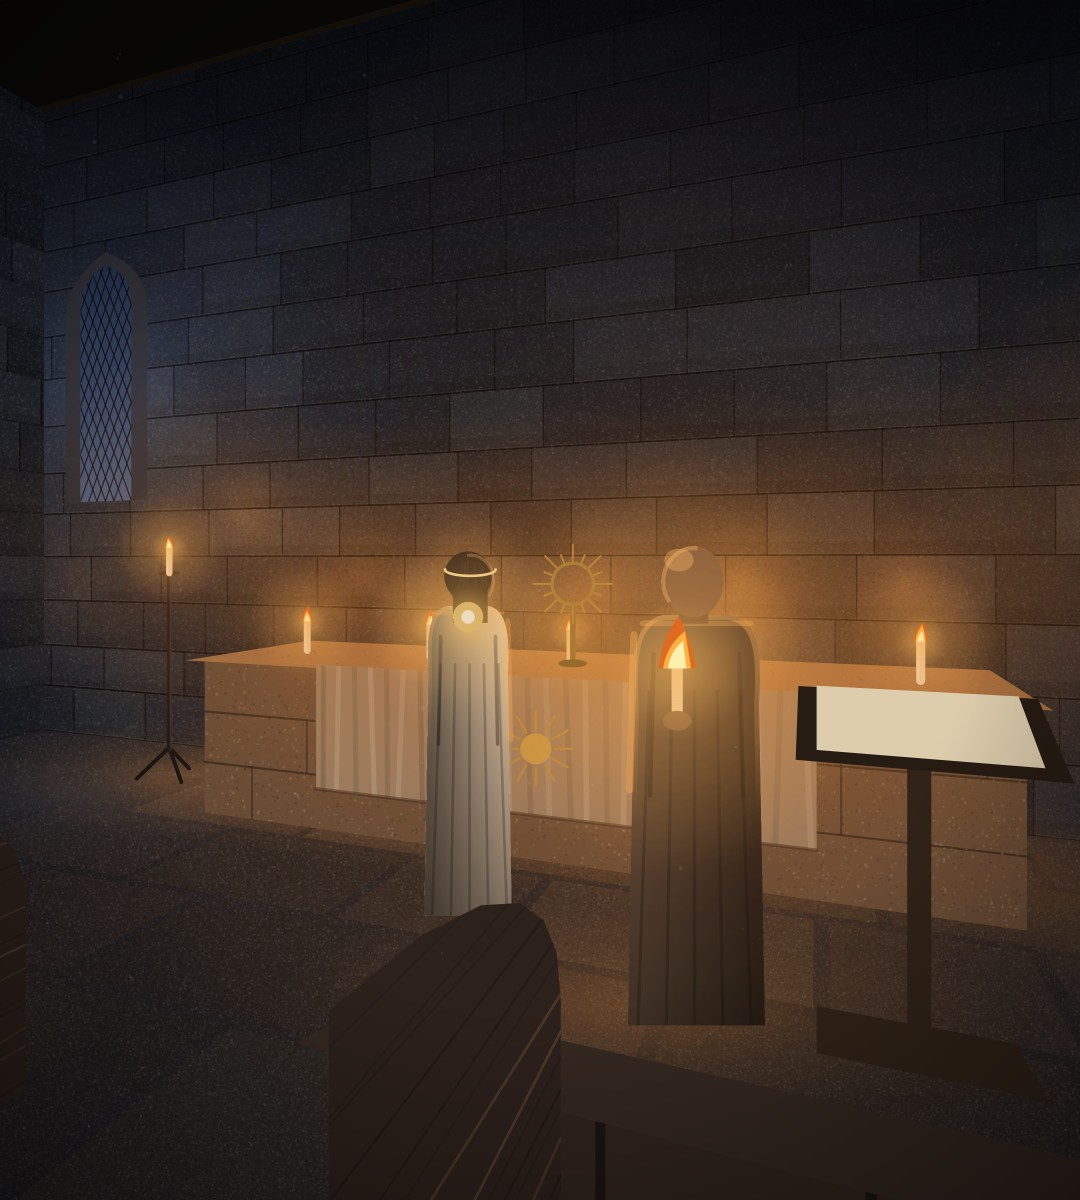
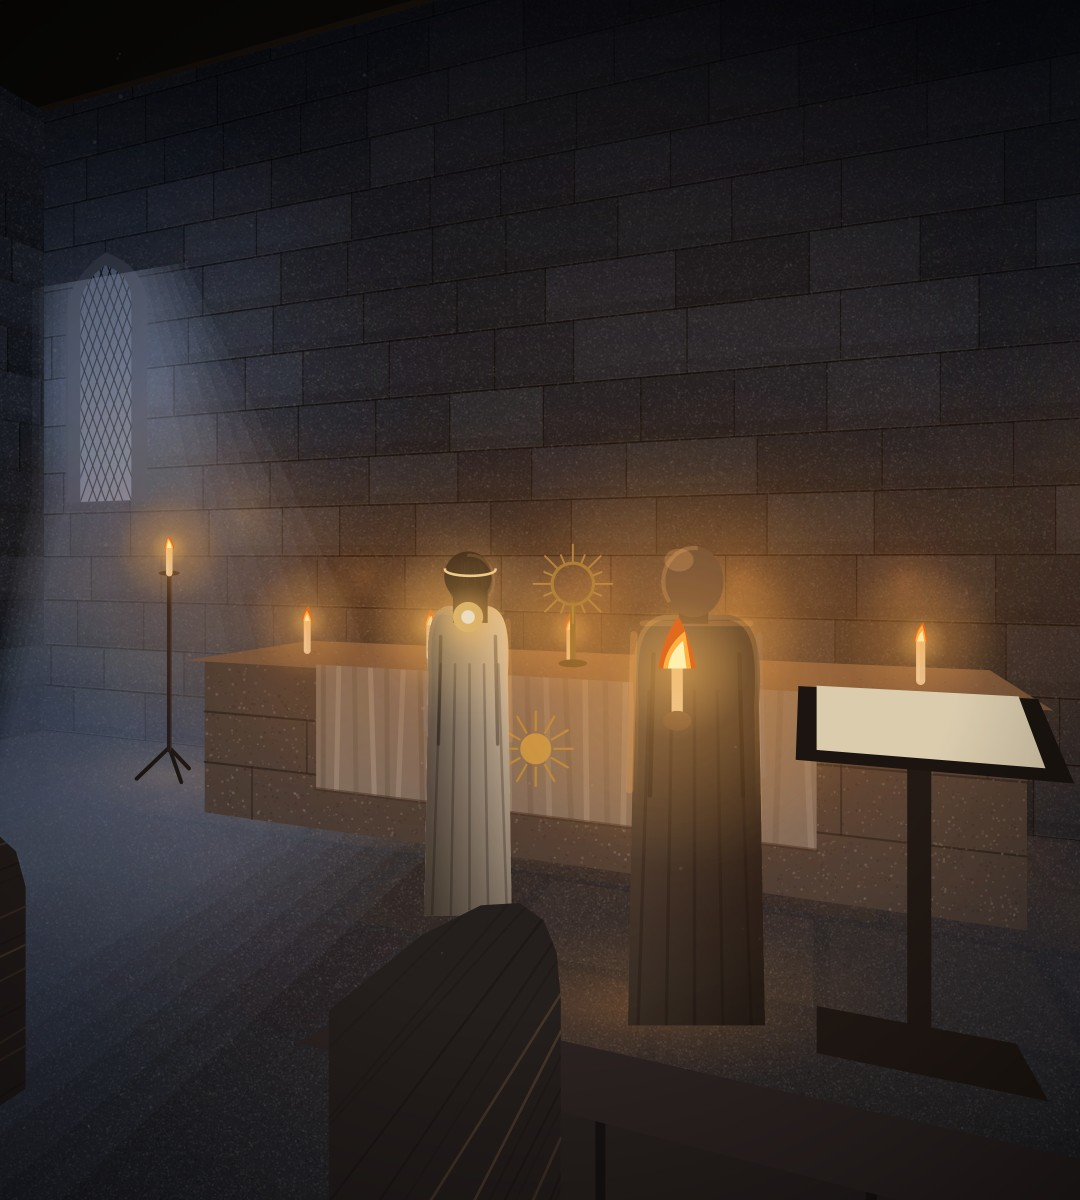
68 (112, 2, Messung Homer): Bild 3 mit Morgengrau aus dem Nordwestfenster (weicher Lichtfall auf Wand und Boden), Kerzenschein enger; kühl 6 → 15 %, Schleier +0,30 → +0,20
Claude-Session: https://claude.ai/code/session_01WK7d6gjHH5ppcA2YCSyFtL

diff --git a/tools/preview/src/main/kotlin/TempleProbe.kt b/tools/preview/src/main/kotlin/TempleProbe.kt
@@ -115,6 +115,8 @@ internal class TemplePainter(val shot: Int) : IntroPainter() {
     // ---- the light of each picture
     val dawn = shot == 5
     val sun = shot == 4
+    /** 112 (2, Messung Homer 18.10.): picture 3 had no counter-light; the first grey of the morning stands in its windows. */
+    val grey = shot == 3
     /** The candles that burn (tile x, height, tile y): on the altar, the two tall candlesticks, Osric's candle. */
     val candles: List<Triple<Double, Double, Double>> by lazy { buildList {
         if (!dawn) {
@@ -130,12 +132,12 @@ internal class TemplePainter(val shot: Int) : IntroPainter() {
      * round of a metre or two and falls off fast; between the candles the room stays dark and cool, no warm veil over it all.
      */
     fun warmth(tx: Double, y: Double, ty: Double): Double = candles.sumOf { (cx0, cy, cy0) ->
-        val d = hypot(hypot((tx - cx0) * T, (ty - cy0) * T), y - cy); 0.42 / (1 + d * d * 2.2) }.coerceAtMost(1.0) * (if (dawn) 0.6 else if (sun) 0.6 else 1.0)
+        val d = hypot(hypot((tx - cx0) * T, (ty - cy0) * T), y - cy); (if (grey) 0.3 else 0.42) / (1 + d * d * (if (grey) 3.6 else 2.2)) }.coerceAtMost(1.0) * (if (dawn) 0.6 else if (sun) 0.6 else 1.0)
     /** The windows (and in picture 5 the door) on the plan: tile x, tile y, how high their middle is. */
     val windows = listOf(Triple(1.5, 1.0, 3.3), Triple(7.5, 1.0, 3.3), Triple(8.0, 3.5, 3.2), Triple(6.5, 6.0, 3.1), Triple(1.5, 6.0, 3.1))
     /** 112 (2): the cold light of the sky before the sun, falling in through the windows (and the door in picture 5). */
     fun cold(tx: Double, y: Double, ty: Double): Double {
-        val k = if (dawn) 1.0 else if (sun) 0.7 else 0.55
+        val k = if (dawn) 1.0 else if (grey) 0.85 else if (sun) 0.7 else 0.55
         val w = windows.sumOf { (wx, wy, wh) -> val d = hypot(hypot((tx - wx) * T, (ty - wy) * T), (y - wh) * 0.7); 0.5 / (1 + d * d * 0.18) }
         val door = if (dawn) { val d = hypot((tx - 4.5) * T, (ty - 6.0) * T); 1.0 / (1 + d * d * 0.25) } else 0.0
         return ((w + door) * k).coerceAtMost(1.0)
@@ -146,7 +148,7 @@ internal class TemplePainter(val shot: Int) : IntroPainter() {
     fun stoneAt(tx: Double, y: Double, ty: Double, k: Double = 1.0): Color {
         val w = warmth(tx, y, ty).coerceAtMost(1.0)
         // the dark of the room is cool; the sky from the windows lays a grey-blue on what is near them
-        val base = mix(mix(night(stoneDay, 0.34 * k), Color(0x181C26), 0.5), mix(night(stoneDay, 0.9 * k), coolSky, 0.45), cold(tx, y, ty) * (if (dawn) 0.6 else 0.6))
+        val base = mix(mix(night(stoneDay, 0.34 * k), Color(0x181C26), 0.5), mix(night(stoneDay, 0.9 * k), coolSky, 0.45), cold(tx, y, ty) * (if (grey) 0.85 else 0.6))
         return mix(base, Color((0xA8 * k).toInt().coerceAtMost(255), (0x70 * k).toInt().coerceAtMost(255), (0x3E * k).toInt().coerceAtMost(255)), w * 0.75)
     }
 
@@ -154,6 +156,8 @@ internal class TemplePainter(val shot: Int) : IntroPainter() {
         g.color = Color(0x05060A); g.fillRect(0, 0, W * SS, H * SS)
         walls()
         floor()
+        // picture 3: the grey falls onto wall and flags behind the people and pews, not over them or the flames
+        if (grey) greyLight()
         // the furniture and the people, far ones first
         val items = ArrayList<Pair<Double, () -> Unit>>()
         items += depth(4.5, 1.5) to { altar() }
@@ -230,7 +234,7 @@ internal class TemplePainter(val shot: Int) : IntroPainter() {
                 val onWall = abs((wx - w.ax) * (w.by - w.ay) - (wy - w.ay) * (w.bx - w.ax)) / len < 0.05
                 if (!onWall) continue
                 val c = P(wx, wh, wy); val z = cz(wx, wy); if (z < 0.3) continue
-                glow(c.x, c.y, f * 3.2 / z, coolSky, if (dawn) 0.4 else if (sun) 0.3 else 0.32) }
+                glow(c.x, c.y, f * 3.2 / z, coolSky, if (dawn) 0.4 else if (grey) 0.45 else if (sun) 0.3 else 0.32) }
             if (dawn && w === list[2]) { val c = P(4.5, 1.4, 6.0); val z = cz(4.5, 6.0); if (z > 0.3) glow(c.x, c.y, f * 4.5 / z, Color(0x8A94A8), 0.55) }
             // warm light from the candles lies on the wall in pools, at the point of the wall nearest the candle
             for ((cx0, cy, cy0) in candles) {
@@ -238,9 +242,9 @@ internal class TemplePainter(val shot: Int) : IntroPainter() {
                 val qx = w.ax + (w.bx - w.ax) * t; val qy = w.ay + (w.by - w.ay) * t
                 val d = hypot(qx - cx0, qy - cy0) * T; if (d > 4.0) continue
                 val c = P(qx, cy + 0.3, qy); val z = cz(qx, qy); if (z < 0.3) continue
-                val k = 1.0 / (1 + d * d * 0.5)
-                glow(c.x, c.y, f * (0.9 + d * 0.5) / z, Color(0xD88038), (if (dawn) 0.2 else 0.34) * k)
-                glow(c.x, c.y, f * (0.4 + d * 0.2) / z, Color(0xFFB060), (if (dawn) 0.1 else 0.18) * k)
+                val k = 1.0 / (1 + d * d * (if (grey) 1.2 else 0.5)); val r = if (grey) 0.65 else 1.0
+                glow(c.x, c.y, f * (0.9 + d * 0.5) * r / z, Color(0xD88038), (if (dawn) 0.2 else 0.34) * k)
+                glow(c.x, c.y, f * (0.4 + d * 0.2) * r / z, Color(0xFFB060), (if (dawn) 0.1 else 0.18) * k)
             }
             // 112 (3): every dressed stone its own shade, a little darker at its lower edge, chipped here and there
             run { var yy = 0.0; var rr = 0
@@ -301,10 +305,11 @@ internal class TemplePainter(val shot: Int) : IntroPainter() {
             sun && east -> GradientPaint(0f, b.y.toFloat(), Color(0xFFE8B0), 0f, (b.y + b.height).toFloat(), Color(0xF0A050))
             sun -> GradientPaint(0f, b.y.toFloat(), Color(0x5A6A8A), 0f, (b.y + b.height).toFloat(), Color(0x8A7A70))
             dawn -> GradientPaint(0f, b.y.toFloat(), Color(0x8A909A), 0f, (b.y + b.height).toFloat(), Color(0xA8A8A6))
+            grey -> GradientPaint(0f, b.y.toFloat(), Color(0x4A5670), 0f, (b.y + b.height).toFloat(), Color(0x7E8698))
             else -> GradientPaint(0f, b.y.toFloat(), Color(0x23304E), 0f, (b.y + b.height).toFloat(), Color(0x4E5E7E))
         }
         // 112 (2): the grey-blue of the sky spills round the window onto the stone, the counter-light to the candles
-        if (!(sun && east)) glow(b.centerX, b.centerY, b.height * (if (door) 1.6 else 1.25), coolSky, if (dawn) 0.3 else 0.22)
+        if (!(sun && east)) glow(b.centerX, b.centerY, b.height * (if (door) 1.6 else 1.25), coolSky, if (dawn) 0.3 else if (grey) 0.32 else 0.22)
         g.paint = sky; g.fill(glass)
         if (door) { if (dawn) outside(glass); return }
         val clip = g.clip; g.clip(glass)
@@ -372,10 +377,11 @@ internal class TemplePainter(val shot: Int) : IntroPainter() {
         room(t3(x0, 0.0, y0), t3(x1, 0.0, y0), t3(x1, 0.0, y1), t3(x0, 0.0, y1))?.let { speckle(it, 0.3, 0.1) }
         // the candles' light on the floor: small warm rounds
         for ((cx0, _, cy0) in candles) { val z = cz(cx0, cy0); if (z < 0.3) continue
-            groundPool(cx(cx0, cy0), z, 1.4, Color(0xE08A3A), if (dawn) 0.2 else 0.28, 0.32) }
+            groundPool(cx(cx0, cy0), z, if (grey) 0.95 else 1.4, Color(0xE08A3A), if (dawn) 0.2 else 0.28, 0.32) }
         // the grey of the sky lying on the flags below the windows
         if (!dawn) for ((wx, wy, _) in windows) { val ix = wx + (4.5 - wx) * 0.25; val iy = wy + (3.5 - wy) * 0.35; val z = cz(ix, iy); if (z < 0.3) continue
-            groundPool(cx(ix, iy), z, 1.8, coolSky, if (sun) 0.12 else 0.16, 0.3) }
+            groundPool(cx(ix, iy), z, if (grey) 2.6 else 1.8, coolSky, if (grey) 0.3 else if (sun) 0.12 else 0.16, 0.3) }
+        if (grey) { val z = cz(2.7, 2.6); if (z > 0.3) groundPool(cx(2.7, 2.6), z, 1.6, Color(0x8C9AB4), 0.22, 0.3) }
         if (dawn) { val z = cz(4.5, 6.0); if (z > 0.3) groundPool(cx(4.5, 6.0), z - 1.6, 3.2, Color(0xA8B0C0), 0.35, 0.3) }
     }
 
@@ -715,6 +721,28 @@ internal class TemplePainter(val shot: Int) : IntroPainter() {
     }
 
     /** Picture 4: the first sun through the east window, a shaft of light through the dusty air down onto the amulet. */
+    /**
+     * Picture 3 (112, 2): no sun yet, only the grey before it; from the north-west window a broad, soft fall of cool light
+     * slants down onto the flags and the left end of the altar, fading as it goes. Not a shaft with edges like picture 4.
+     */
+    fun greyLight() {
+        val wx = 1.5; val wy = 1.0
+        if (cz(wx, wy) < 0.3) return
+        val old = g.composite
+        // soft edges: the same fall laid several times, a little wider each time and fainter
+        for (k in 0 until 6) {
+            val e = 0.12 * k
+            val s0 = P(wx - 0.3 - e * 0.5, 4.3, wy); val s1 = P(wx + 0.3 + e * 0.5, 4.3, wy); val s3 = P(wx - 0.3 - e * 0.5, 2.3, wy)
+            val f0 = P(1.9 - e, 0.0, 1.9 - e * 0.5); val f1 = P(3.5 + e, 0.0, 2.0 - e * 0.5); val f2 = P(3.7 + e, 0.0, 3.3 + e); val f3 = P(1.7 - e, 0.0, 3.1 + e)
+            val fall = Path2D.Double().apply { moveTo(s0.x, s0.y); lineTo(s1.x, s1.y); lineTo(f1.x, f1.y); lineTo(f2.x, f2.y); lineTo(f3.x, f3.y); lineTo(f0.x, f0.y); lineTo(s3.x, s3.y); closePath() }
+            val mid = Point2D.Double((f0.x + f1.x + f2.x + f3.x) / 4, (f0.y + f1.y + f2.y + f3.y) / 4)
+            g.composite = AlphaComposite.getInstance(AlphaComposite.SRC_OVER, 0.075f)
+            g.paint = GradientPaint(s1.x.toFloat(), s1.y.toFloat(), Color(0x8C9AB4), mid.x.toFloat(), mid.y.toFloat(), Color(0x5C6E90))
+            g.fill(fall)
+        }
+        g.composite = old
+    }
+
     fun sunBeam() {
         val wx = 8.0; val wy = 3.5
         val src = listOf(P(wx, 4.2, wy - 0.25), P(wx, 4.2, wy + 0.25), P(wx, 2.2, wy + 0.25), P(wx, 2.2, wy - 0.25))
